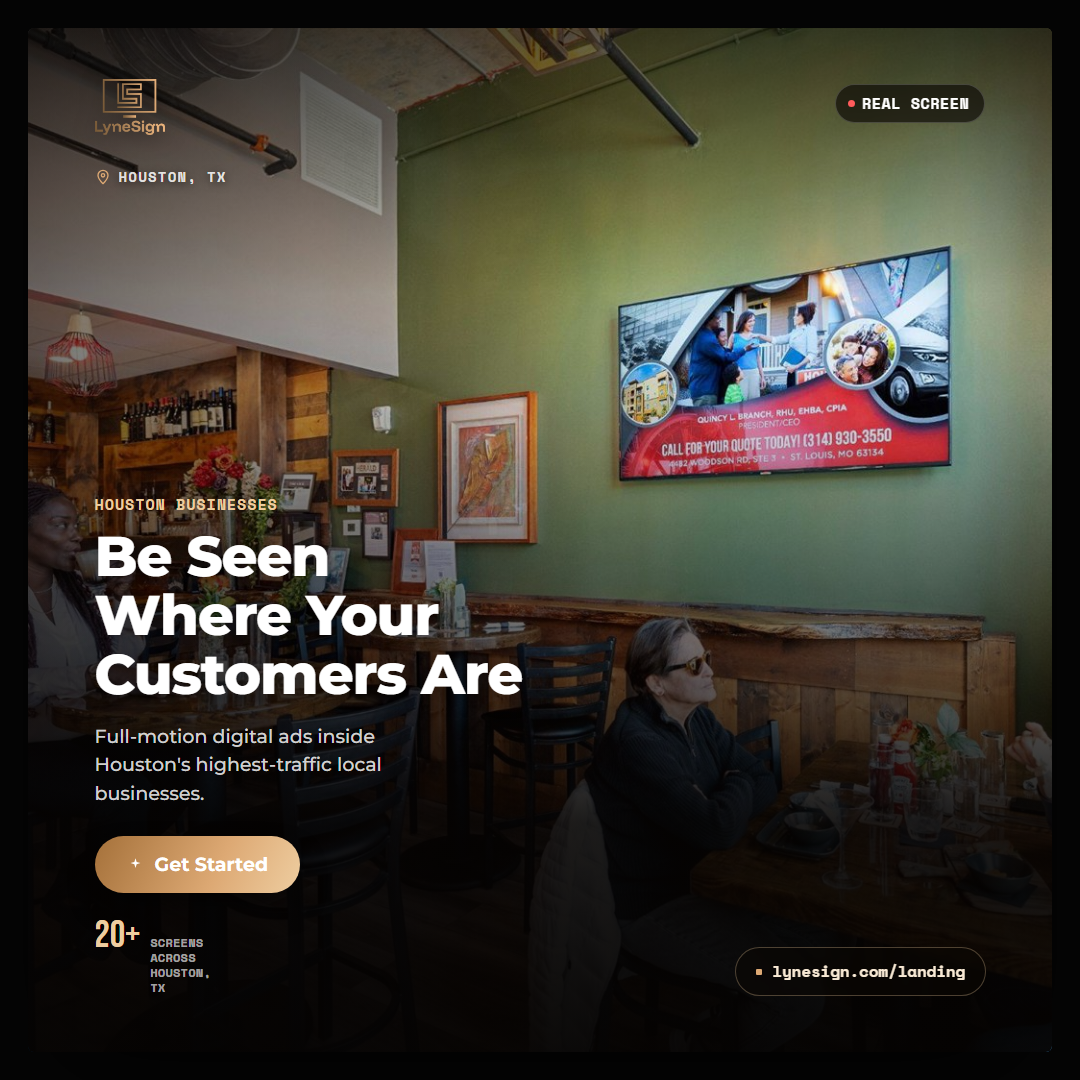
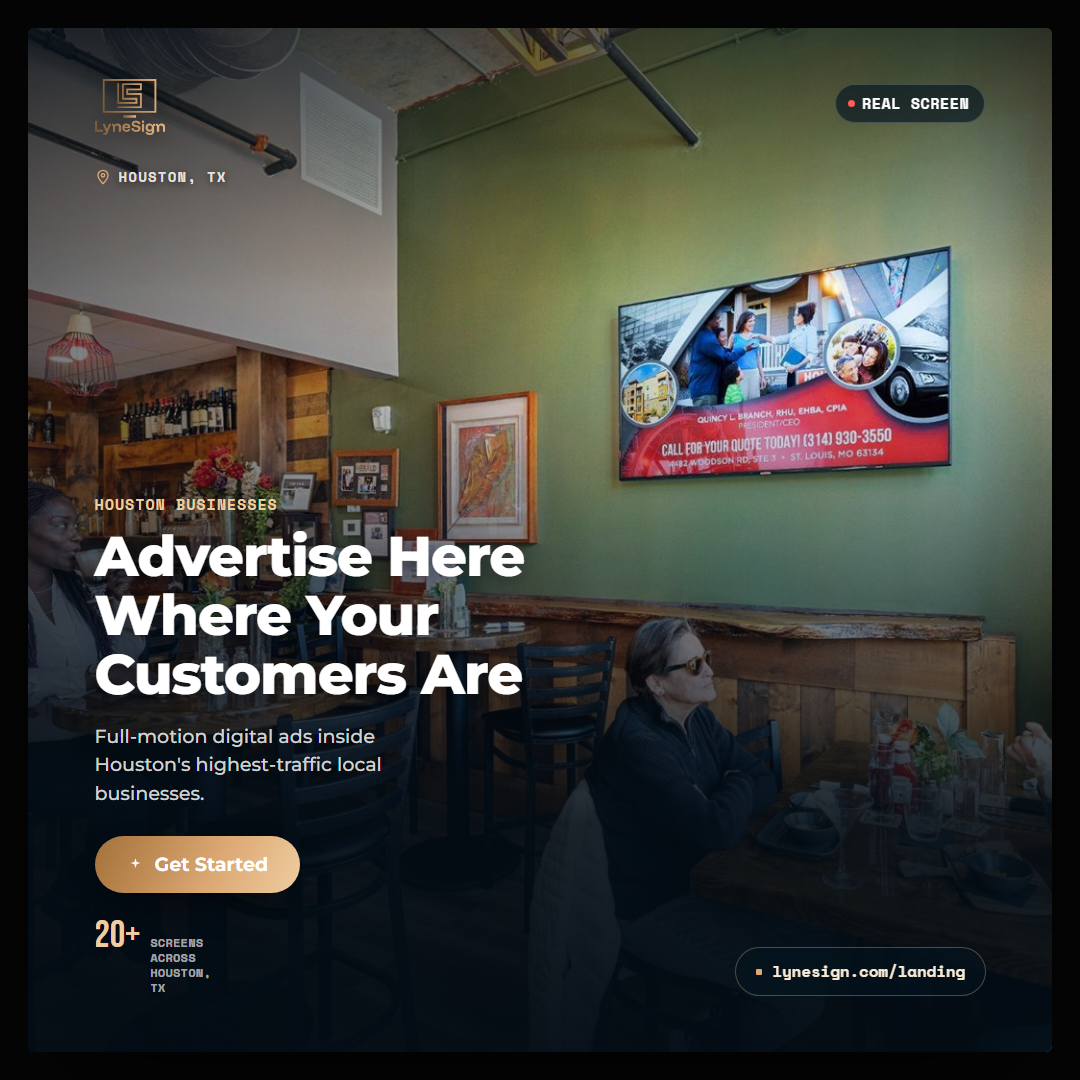
Update main Instagram post: new headline, navy brand fix
Headline now reads "Advertise Here Where Your Customers Are."
UI chip backgrounds switched from neutral near-black to LyneSign's
actual navy to match the brand correction applied to the posters.

Changed region(s): [[0.0917, 0.4889, 0.4889, 0.55]]

diff --git a/lynesign-landing-page/instagram/houston-post.html b/lynesign-landing-page/instagram/houston-post.html
@@ -2,7 +2,7 @@
 <html lang="en">
 <head>
 <meta charset="UTF-8">
-<title>Houston On Air</title>
+<title>Advertise Here Where Your Customers Are</title>
 <link rel="preconnect" href="https://fonts.googleapis.com">
 <link rel="preconnect" href="https://fonts.gstatic.com" crossorigin>
 <link href="https://fonts.googleapis.com/css2?family=Montserrat:wght@500;600;700;800;900&family=Space+Mono:wght@700&family=Bebas+Neue&display=swap" rel="stylesheet">
@@ -41,17 +41,17 @@ body{
 /* legibility scrims */
 .post .scrim-bottom{
   position:absolute;left:0;right:0;bottom:0;height:70%;
-  background:linear-gradient(0deg, rgba(5,3,2,0.97) 0%, rgba(5,3,2,0.9) 32%, rgba(5,3,2,0.5) 62%, rgba(5,3,2,0.05) 92%, transparent 100%);
+  background:linear-gradient(0deg, rgba(3,12,20,0.97) 0%, rgba(3,12,20,0.9) 32%, rgba(3,12,20,0.5) 62%, rgba(3,12,20,0.05) 92%, transparent 100%);
   z-index:1;
 }
 .post .scrim-left{
   position:absolute;left:0;top:0;bottom:0;width:56%;
-  background:linear-gradient(90deg, rgba(5,3,2,0.55) 0%, transparent 100%);
+  background:linear-gradient(90deg, rgba(3,12,20,0.55) 0%, transparent 100%);
   z-index:1;
 }
 .post .scrim-top{
   position:absolute;left:0;right:0;top:0;height:26%;
-  background:linear-gradient(180deg, rgba(4,3,2,0.65) 0%, transparent 100%);
+  background:linear-gradient(180deg, rgba(3,12,20,0.65) 0%, transparent 100%);
   z-index:1;
 }
 
@@ -74,7 +74,7 @@ body{
 .live-tag{
   position:absolute;top:5.5%;right:6.5%;z-index:4;
   display:flex;align-items:center;gap:7px;
-  background:rgba(10,7,4,0.65);
+  background:rgba(4,20,32,0.65);
   border:1px solid rgba(255,255,255,0.18);
   padding:8px 15px 8px 12px;
   border-radius:100px;
@@ -140,7 +140,7 @@ h1{
 .plate{
   position:absolute;right:6.5%;bottom:5.5%;z-index:4;
   display:flex;align-items:center;gap:10px;
-  background:rgba(10,7,4,0.6);
+  background:rgba(4,20,32,0.6);
   border:1px solid rgba(238,205,160,0.3);
   padding:12px 20px;border-radius:100px;
   backdrop-filter:blur(3px);
@@ -171,7 +171,7 @@ h1{
 
   <div class="content">
     <div class="eyebrow">Houston Businesses</div>
-    <h1>Be Seen Where Your Customers Are</h1>
+    <h1>Advertise Here Where Your Customers Are</h1>
     <p class="sub">Full-motion digital ads inside Houston's highest-traffic local businesses.</p>
     <div class="btn">
       <svg viewBox="0 0 24 24" fill="none" aria-hidden="true"><path d="M12 3l1.6 5.4L19 10l-5.4 1.6L12 17l-1.6-5.4L5 10l5.4-1.6L12 3z" fill="currentColor"/></svg>
